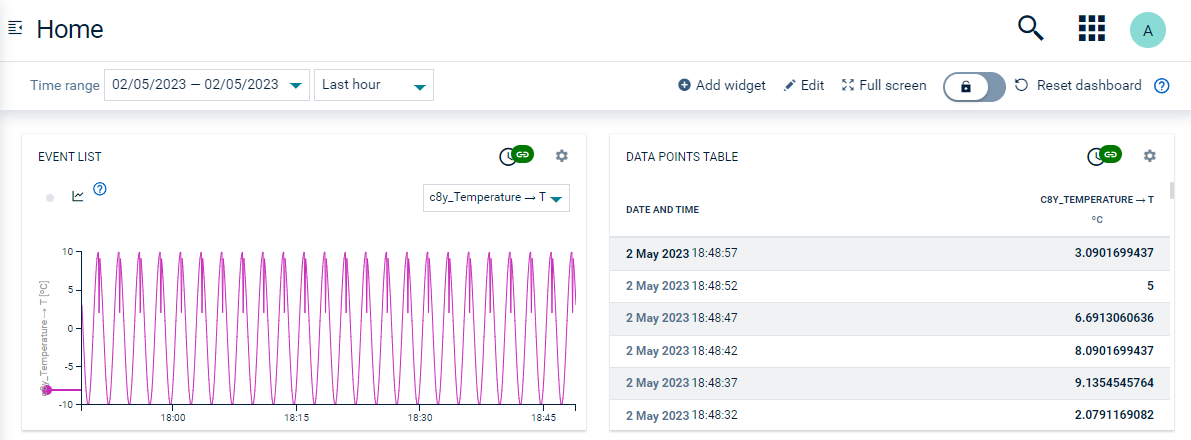
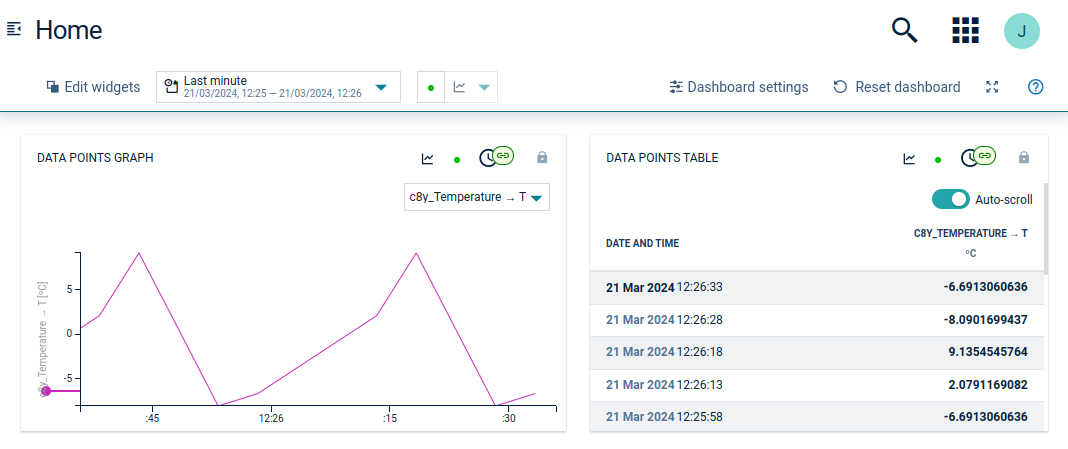
[MTM-58453] Working with dashboards update: creating, dashboard template, dashboard time context

diff --git a/content/cockpit/working-with-dashboards.md b/content/cockpit/working-with-dashboards.md
@@ -47,62 +47,63 @@ ROLES & PERMISSIONS:
 To create your individualized dashboard, execute the following steps:
 
 1. In the **Groups** menu select the group or the device in the navigator for which to create a dashboard.
-2. Click the plus icon right from the tabs to open the dashboard editor.
+2. Click "Add dashboard" button right from the tabs to open the dashboard editor.
 
-3. In the **Tab** section of the dashboard editor, provide the following information:
+3. In the **General** tab of the dashboard editor, provide the following information:
 
     * An icon which is shown next to the dashboard name in the navigator.
     * A menu label to be used as the name of the dashboard.
-    * The location of the dashboard in the navigator, with "10000" being ordered first and "-10000" last.
+    * Description of the dashboard.
+    * The location of the dashboard in the navigator, with "5000" being ordered first and "-5000" last.
 <br><br>
 
-4. Enable the option **Apply dashboard to all devices of type <device type>** to share the dashboard with all devices of this type.
-
-5. In the **Availability** section, specify which users have access to the dashboard based on global roles. By default, all available global roles are selected, which means that a user with at least one such role has access to the dashboard.
+4. In the **Availability** section, specify which users have access to the dashboard based on global roles. By default, all available global roles are selected, which means that a user with at least one such role has access to the dashboard.
 
    {{< c8y-admon-info >}}
 - Dashboard are always visible to its owner and to users with ADMIN permission for the permission type "Inventory".
 - This functionality is entirely based on client-side solutions. If users have an accurate link to the dashboard, they will still be able to access it.
     {{< /c8y-admon-info >}}
 
-6. In the **Layout** section you can select a theme for the dashboard (one of "Light", "Dark", "Transparent" or "Branded") and a default header style for the widgets (one of "Regular", "Border", "Overlay", or "Hidden"). Moreover, you can change the default widget margin (default value is 15 px).
+5. Enable the option **Dashboard template** to share the dashboard with all devices of this type. Option available for devices dashboards only.
+
+6. In the **Appearance** tab you can select a theme for the dashboard (one of "Match UI", "Light", "Dark" or "Branded") and a default header style for the widgets (one of "Regular", "Border", "Overlay", or "Hidden"). Moreover, you can change the default widget margin (default value is 12 px).
 7. Enable the option **Translate widget titles if possible**, to have the widget title translated every time the language is changed.
 
     {{< c8y-admon-info >}}
 The widget titles will be translated only if a valid translation is available.
     {{< /c8y-admon-info >}}
-8. In the **Preview** section at the right, a preview of the selected layout settings is immediately displayed to visualize your selections.
+8. User provided changes will be immediately displayed to visualize your selections in the dashboard below Dashboard settings.
 
 9. Click **Save** to create and open the dashboard.
 
-<br>Next, widgets can be added to the report. They allow you to display more detailed data in your dashboard.
+<br>Next, widgets can be added to the dashboard. They allow you to display more detailed data in your dashboard.
 
 Refer to [Using widgets in dashboards and reports](/cockpit/using-widgets/) for details on how to add, modify or remove widgets.
 
-### To share a dashboard {#to-share-a-dashboard}
+### Dashboard template {#to-share-a-dashboard}
 
 You can create a dashboard for a specific device and share it with all devices of the same type. This is only possible though, if the type property is set for the device.
 
-To do so, select the option **Apply dashboard to all devices of type [TYPE]** ([TYPE] is replaced with the type of the device that is currently selected).
-
-A corresponding message will be displayed in the editor.
+To do so, enable **Dashboard template** option. A corresponding message will be displayed in the editor.
+After enabling it, you can see how many devices will share this dashboard. There is also a possibility to duplicate type dashboard as regular one (assigned to current device only).
 
 <img src="/images/users-guide/cockpit/cockpit-dashboard-share.png" name="Shared dashboard"/>
 
-Changes made to this dashboard are automatically applied to all dashboard instances.
+Dashboard with Dashboard template option enabled can be accessed and modified from all devices of this type. 
+Therefore, changes made to this dashboard are automatically applied to all dashboard instances, no matter which device view user is currently on.
 
 {{< c8y-admon-info >}}
 You can only add widgets and data to the dashboard for the device itself. It is not possible to add data from child devices because the structure of these devices might be different from device to device.
 {{< /c8y-admon-info >}}
 
-### Global time context {#global-time-context}
+### Dashboard time range {#global-time-context}
 
-In the widget configuration, you can specify a global time range for your dashboards. When using a global time range, all data in a dashboard will be aligned to this range. After setting the global time range in a first widget, this shared context can then be used by other widgets that are configured to use the global date context.
+In the widget configuration, you can specify a dashboard time range for your dashboards. When using a dashboard time range, all data in a dashboard will be aligned to this range. After setting the dashboard time range in a first widget, this shared context can then be used by other widgets that are configured to use the dashboard date context.
 
-The global time range can be set to any time span, depending on the monitoring needs, by using a custom date picker. The time range is displayed at the top of the dashboard, so you can immediately see the context for which the data is presented. Additionally, you can share dashboards with a specific time context by including the time context parameters in a URL. URL parameters will be set automatically when users set the global time context with the picker.
+The dashboard time range can be set to any time span, depending on the monitoring needs, by using a custom date picker. The time range is displayed at the top of the dashboard, so you can immediately see the context for which the data is presented. Additionally, you can share dashboards with a specific time context by including the time context parameters in a URL. URL parameters will be set automatically when users set the dashboard time context with the picker.
 
 {{< c8y-admon-info >}}
-This feature is currently available for the following widgets: Event list, Data points graph, and Data points table.
+This feature is currently available for the following widgets: Event list, Data points graph, Data points table, Map.
 {{< /c8y-admon-info >}}
 
 <img src="/images/users-guide/cockpit/cockpit-dashboard-global-time.png" name="Global time context"/>

diff --git a/content/cockpit/using-widgets-bundle/widgets-dashboards-reports.md b/content/cockpit/using-widgets-bundle/widgets-dashboards-reports.md
@@ -23,7 +23,7 @@ Some of the widget require additional permissions in order to visualize the data
 
 ### To add a widget to a dashboard or a report {#to-add-a-widget-to-a-dashboard-or-a-report}
 
-1. Click **Add widget** in the top menu bar or click the **Add widget** button on the main page (only available in case of an empty dashboard/report).
+1. Click **edit widgets** to enter edit mode and then click **Add widget** in the top menu bar or click the **Add widget** button on the main page (only available in case of an empty dashboard/report).
 
 2. In the **Add widget** dialog, select a widget type.
 
